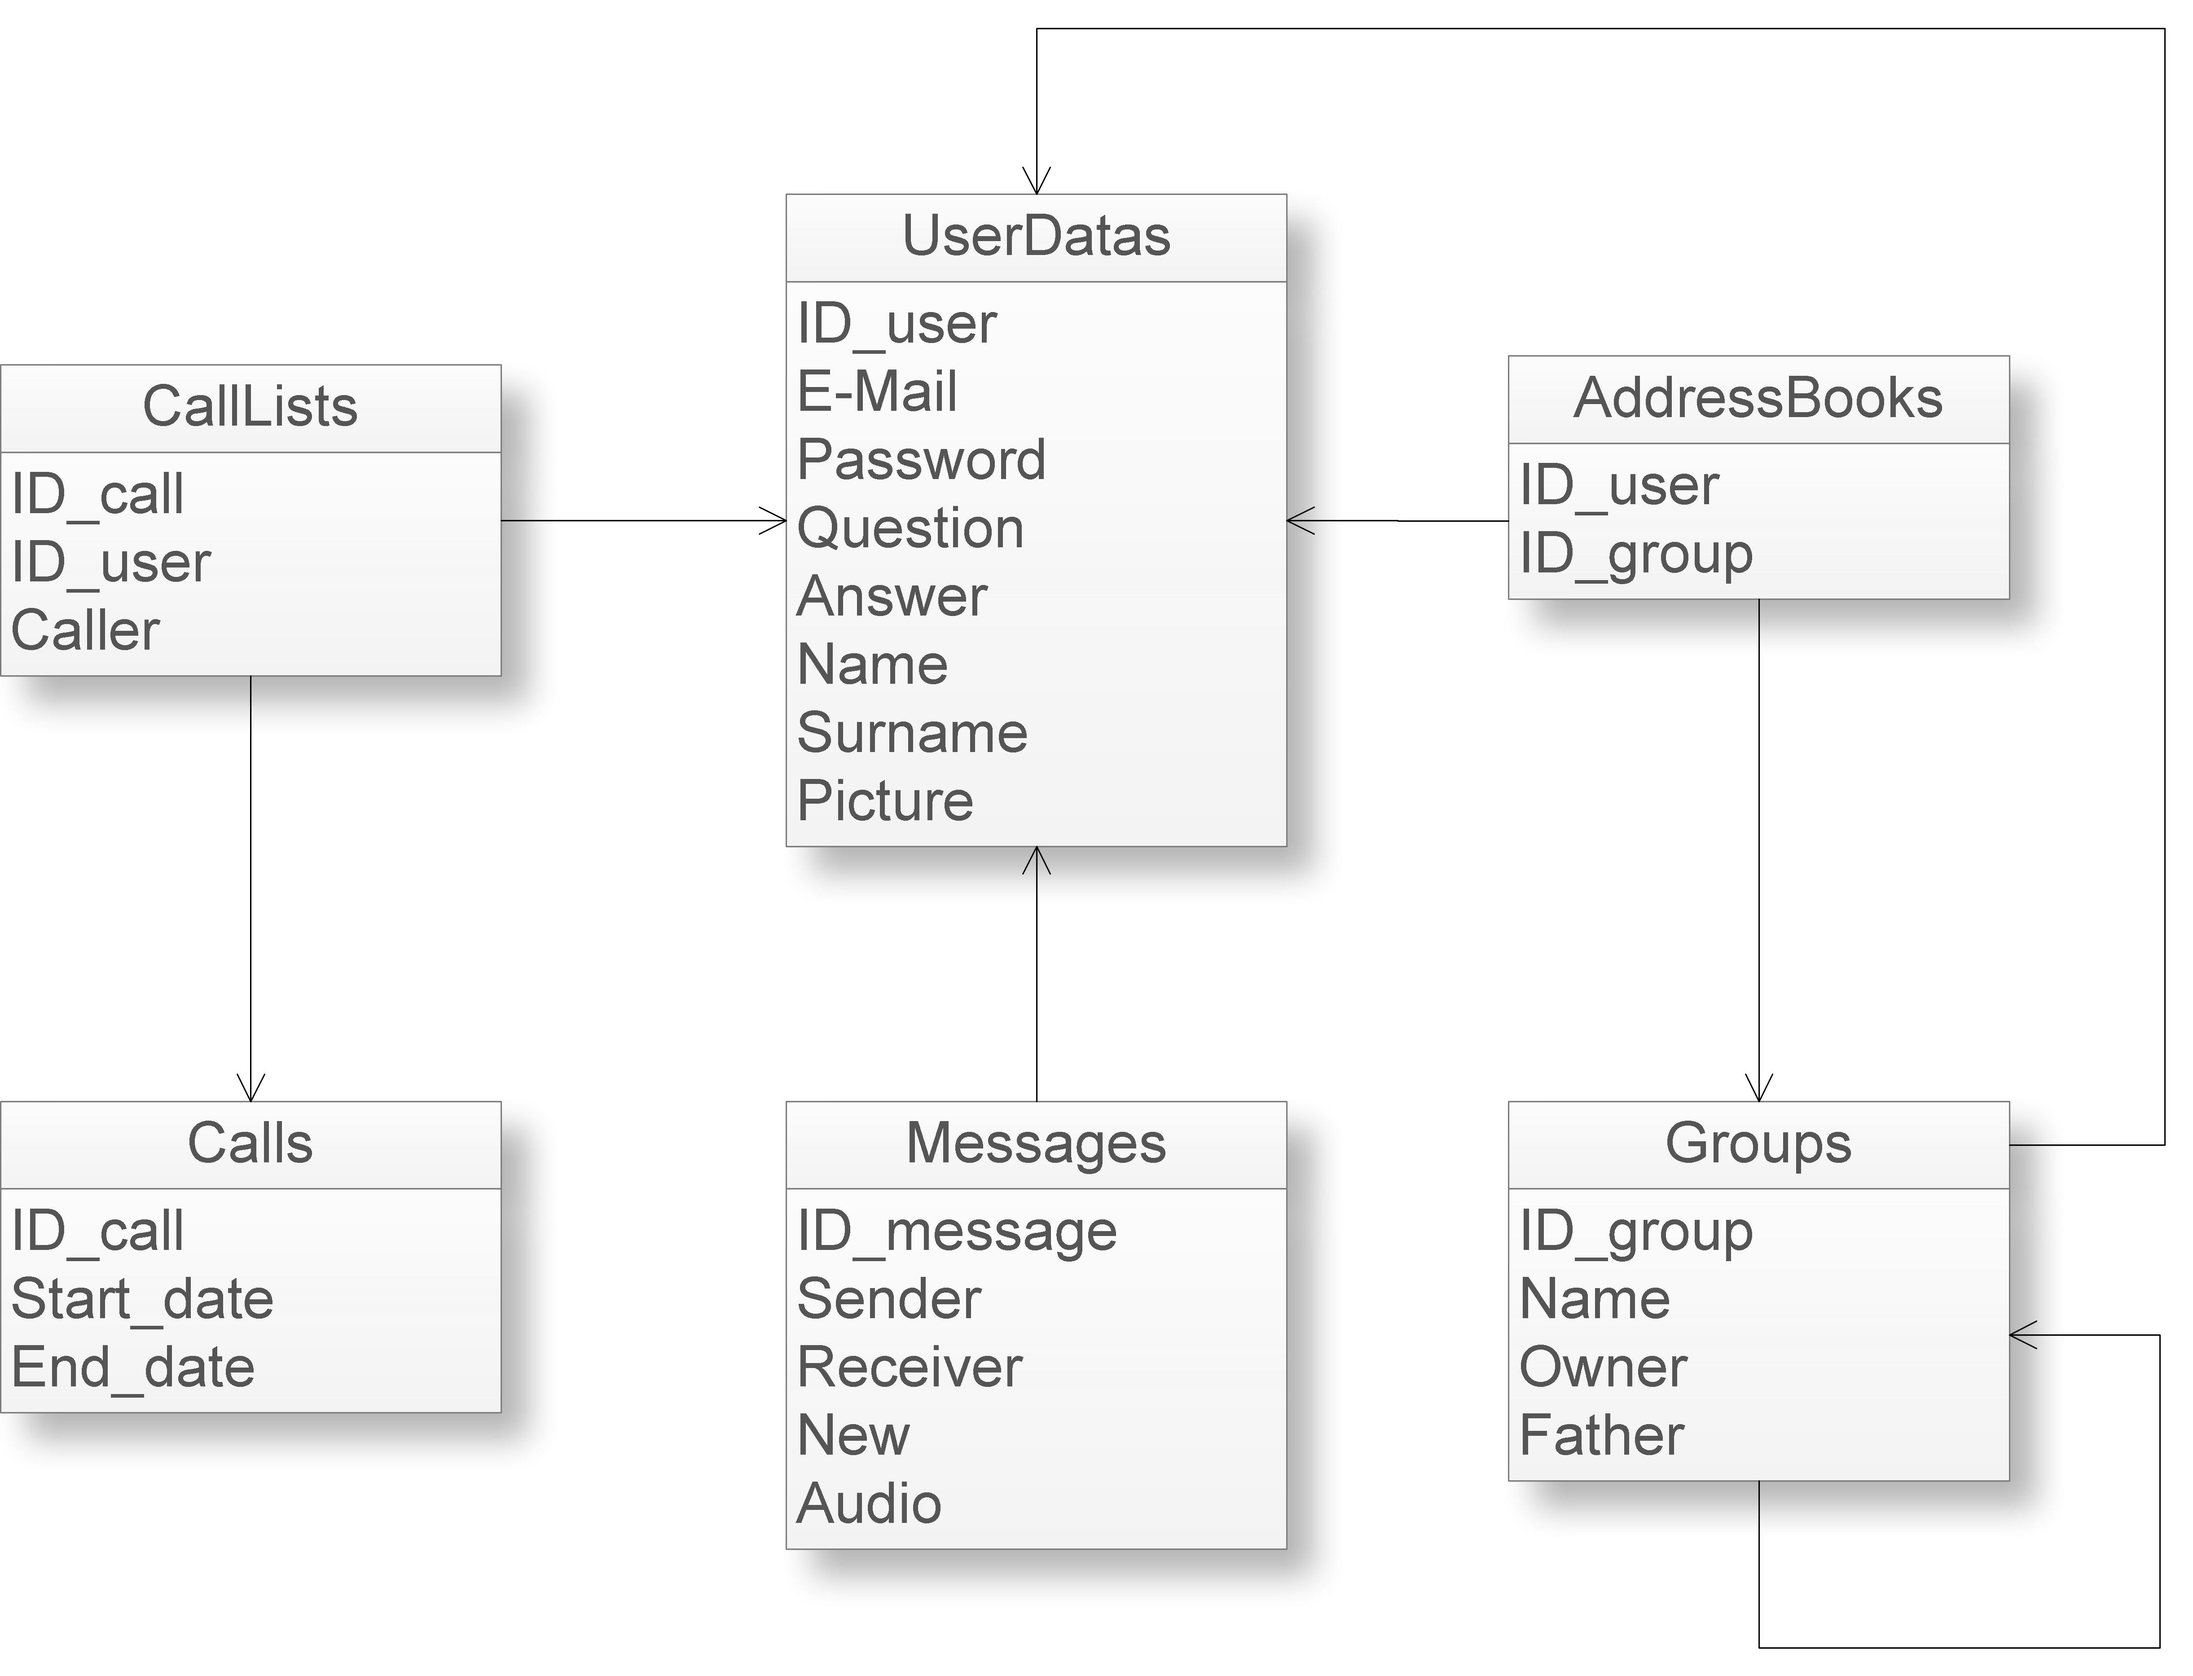
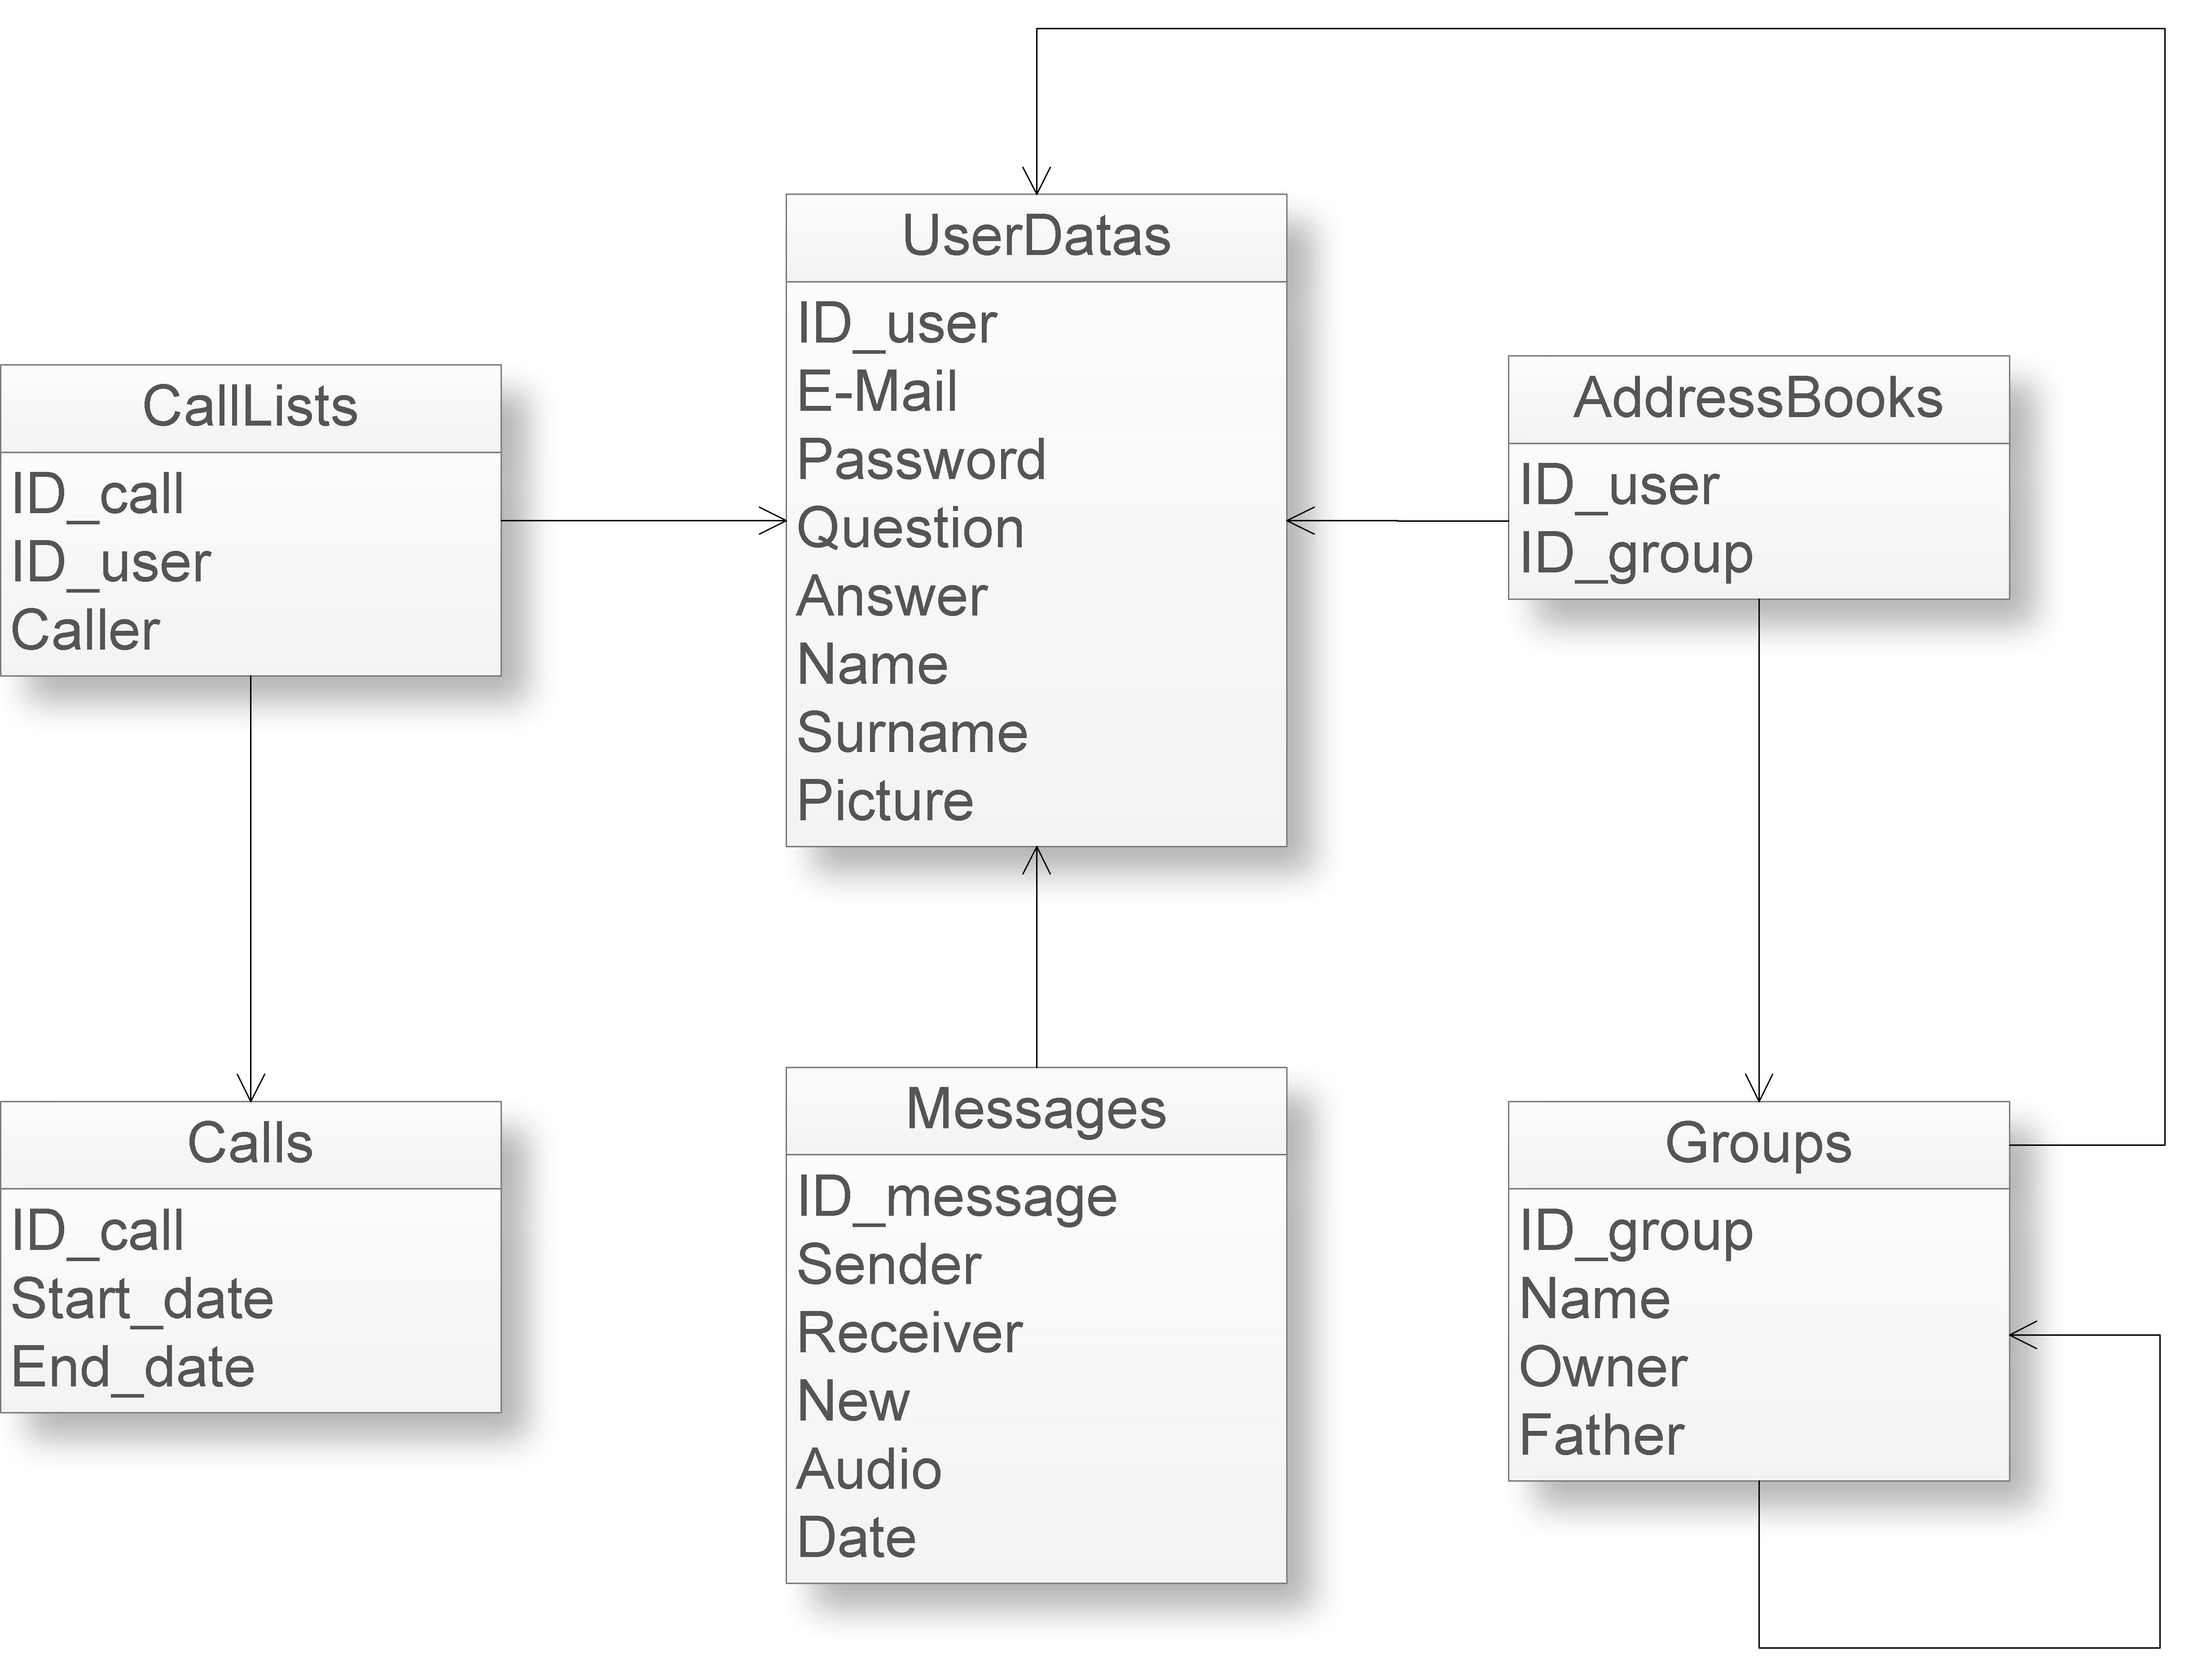
Modifica al database
Aggiunto il campo data alla tabella messaggi nella progettazione logica
e di concettuale e aggiornato il diagramma del database

Changed region(s): [[0.3423, 0.6526, 0.6223, 0.9633], [0.5601, 0.6526, 0.6223, 0.6836]]

diff --git a/Documents/specifica_tecnica/specifica_tecnica.tex b/Documents/specifica_tecnica/specifica_tecnica.tex
@@ -332,6 +332,7 @@ ID\_message & Text & NO & PrimaryKey\\
 Sender & Varchar(100) & NO & \\
 Receiver & Varchar(100) & NO & \\
 New & Boolean & NO & \\
+Date & Datetime & NO & \\
 \bottomrule
 \end{tabular}
 \end{center}	
@@ -490,6 +491,7 @@ Sender & Varchar(100) & NO & ForeignKey verso UserData \\
 Receiver & Varchar(100) & NO & ForeignKey verso UserData\\
 New & Boolean & NO & \\
 Audio & Boolean & NO & \\
+Messages & Datatime & NO & \\
 \bottomrule
 \end{tabular}	
 \end{center}
